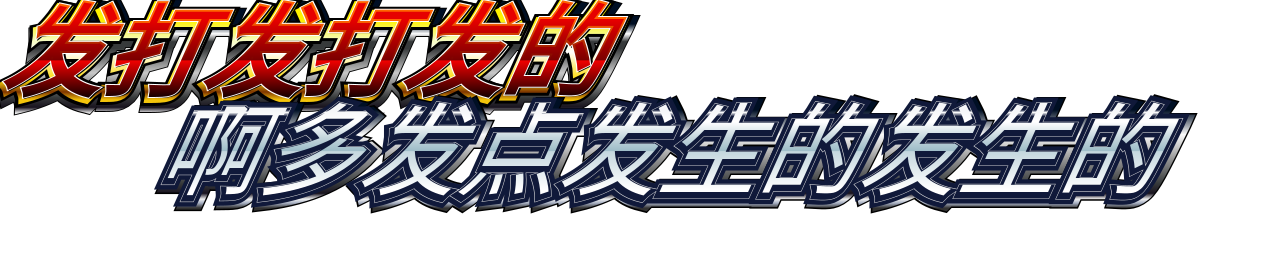
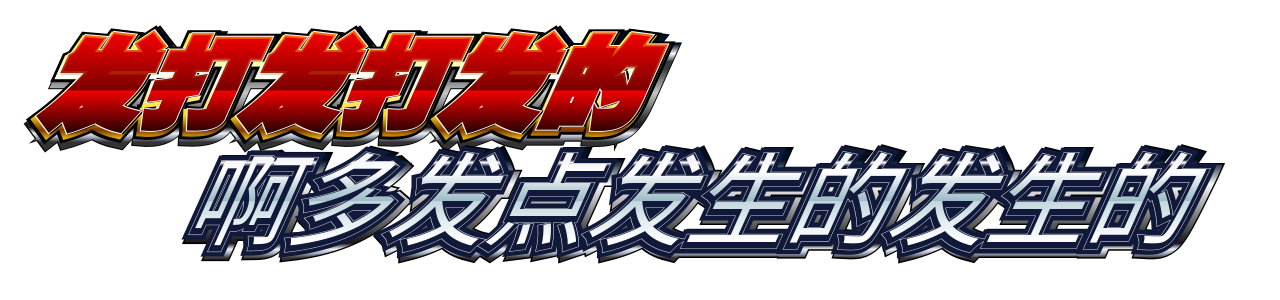
fix bug

diff --git a/ai/chat/5000choyen.js b/ai/chat/5000choyen.js
@@ -22,7 +22,8 @@ const renderRedText = (ctx, text, x, y) => {
 
 	//銀色
 	{
-		const grad = ctx.createLinearGradient(0, 24, 0, 122);
+		// const grad = ctx.createLinearGradient(0, 24, 0, 122);
+		const grad = ctx.createLinearGradient(0, 44, 0, 142);
 		grad.addColorStop(0.0, 'rgb(0,15,36)');
 		grad.addColorStop(0.10, 'rgb(255,255,255)');
 		grad.addColorStop(0.18, 'rgb(55,58,59)');
@@ -47,7 +48,8 @@ const renderRedText = (ctx, text, x, y) => {
 
 	//金色
 	{
-		const grad = ctx.createLinearGradient(0, 20, 0, 100);
+		// const grad = ctx.createLinearGradient(0, 20, 0, 100);
+		const grad = ctx.createLinearGradient(0, 40, 0, 140);
 		grad.addColorStop(0, 'rgb(253,241,0)');
 		grad.addColorStop(0.25, 'rgb(245,253,187)');
 		grad.addColorStop(0.4, 'rgb(255,255,255)');
@@ -71,7 +73,8 @@ const renderRedText = (ctx, text, x, y) => {
 
 	//赤
 	{
-		const grad = ctx.createLinearGradient(0, 20, 0, 100);
+		// const grad = ctx.createLinearGradient(0, 20, 0, 100);
+		const grad = ctx.createLinearGradient(0, 40, 0, 140);
 		grad.addColorStop(0, 'rgb(255, 100, 0)');
 		grad.addColorStop(0.5, 'rgb(123, 0, 0)');
 		grad.addColorStop(0.51, 'rgb(240, 0, 0)');
@@ -83,7 +86,8 @@ const renderRedText = (ctx, text, x, y) => {
 
 	//赤
 	{
-		const grad = ctx.createLinearGradient(0, 20, 0, 100);
+		// const grad = ctx.createLinearGradient(0, 20, 0, 100);
+		const grad = ctx.createLinearGradient(0, 40, 0, 140);
 		grad.addColorStop(0, 'rgb(230, 0, 0)');
 		grad.addColorStop(0.5, 'rgb(123, 0, 0)');
 		grad.addColorStop(0.51, 'rgb(240, 0, 0)');
@@ -108,6 +112,7 @@ const renderWhiteText = (ctx, text, x, y) => {
 	// 銀
 	{
 		const grad = ctx.createLinearGradient(0, y-80, 0, y+18);
+		// const grad = ctx.createLinearGradient(0, y-60, 0, y+38);
 		grad.addColorStop(0, 'rgb(0,15,36)');
 		grad.addColorStop(0.25, 'rgb(250,250,250)');
 		grad.addColorStop(0.5, 'rgb(150,150,150)');
@@ -138,6 +143,7 @@ const renderWhiteText = (ctx, text, x, y) => {
 	//紺
 	{
 		const grad = ctx.createLinearGradient(0, y-80, 0, y);
+		// const grad = ctx.createLinearGradient(0, y-60, 0, y+20);
 		grad.addColorStop(0, 'rgb(16,25,58)');
 		grad.addColorStop(0.03, 'rgb(255,255,255)');
 		grad.addColorStop(0.08, 'rgb(16,25,58)');
@@ -151,6 +157,7 @@ const renderWhiteText = (ctx, text, x, y) => {
 	//銀
 	{
 		const grad = ctx.createLinearGradient(0, y-80, 0, y);
+		// const grad = ctx.createLinearGradient(0, y-60, 0, y+20);
 		grad.addColorStop(0, 'rgb(245,246,248)');
 		grad.addColorStop(0.15, 'rgb(255,255,255)');
 		grad.addColorStop(0.35, 'rgb(195,213,220)');
@@ -186,7 +193,7 @@ const fiveThousandTrillionYen = (content, callback) => {
 	let line2w = ctxTmp.measureText(sp[1]).width + LINE_INDENT
 
 	let canvasWidth = (line2w > line1w ? line2w : line1w) + GLOBAL_MARGIN * 2
-	let cavasHeight = 200 + GLOBAL_MARGIN * 2
+	let cavasHeight = 200 + GLOBAL_MARGIN * 2 + 20
 
 	let canvas = createCanvas(canvasWidth, cavasHeight)
 		, ctx = canvas.getContext('2d')
@@ -194,8 +201,8 @@ const fiveThousandTrillionYen = (content, callback) => {
 	ctx.fillStyle = `white`
 	ctx.fillRect(0, 0, canvasWidth, cavasHeight)
 
-	renderRedText(ctx, sp[0], GLOBAL_MARGIN, GLOBAL_MARGIN)
-	renderWhiteText(ctx, sp[1], GLOBAL_MARGIN + LINE_INDENT, GLOBAL_MARGIN + 100)
+	renderRedText(ctx, sp[0], GLOBAL_MARGIN + 50, GLOBAL_MARGIN + 100 - 20)
+	renderWhiteText(ctx, sp[1], GLOBAL_MARGIN + LINE_INDENT + 50, GLOBAL_MARGIN + 100 + 100 - 20 + 20)
 
 
 	let imgData = canvas.toDataURL()
